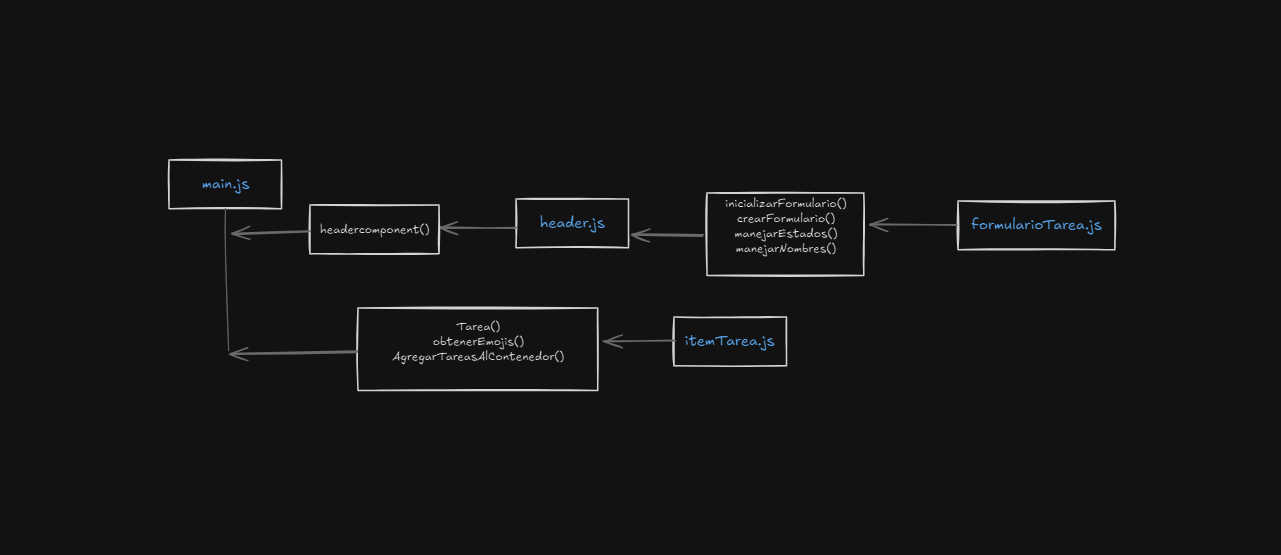
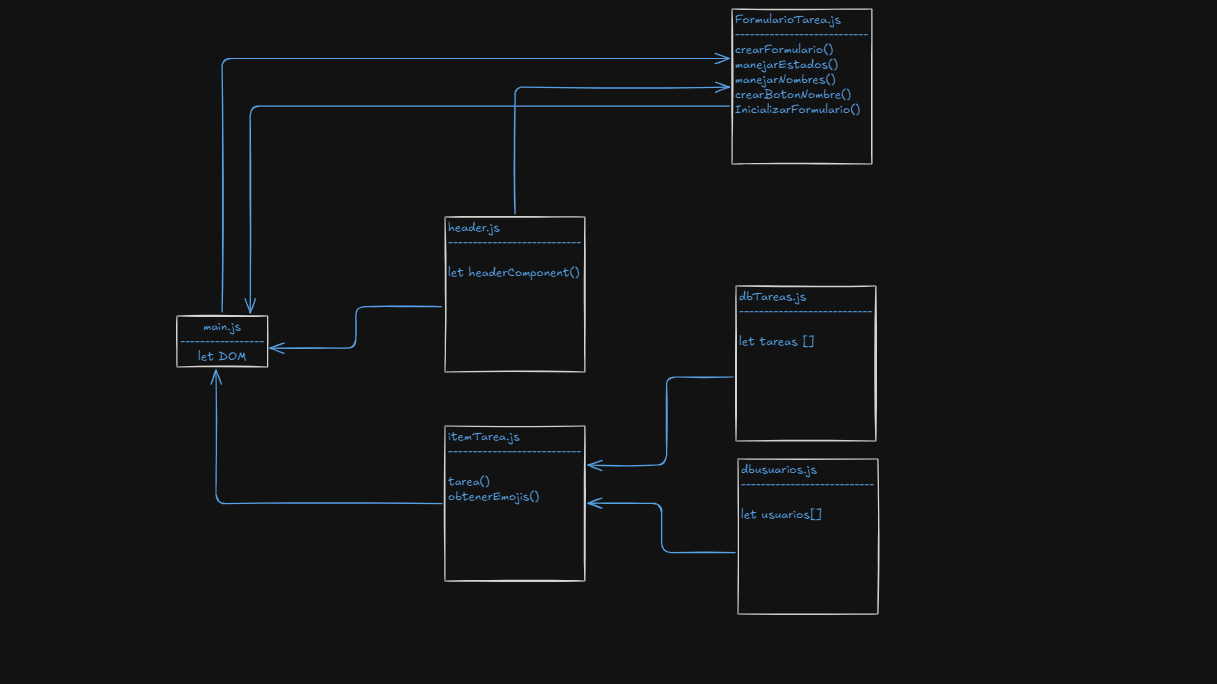
UML terminado

diff --git a/componentes/header/header.css b/componentes/header/header.css
@@ -56,11 +56,9 @@
 }
 .icon1 :hover{
     transition: 2ms;
-    zoom: 1.2;
 }
 .icon2 :hover{
     transition: 2ms;
-    zoom: 1.2;
 }
 .icon2{
     text-align: center;

diff --git a/README.md b/README.md
@@ -88,4 +88,4 @@ Mantener el fork actualizado
 # Esquema 
 link de excalidraw: https://excalidraw.com/#json=XIBe2WIx5Uo7vUiWwqwuE,lnfCPDIcpdG9mSclbXEuQQ
 
-![Esquema](https://github.com/user-attachments/assets/1f7861f7-285a-4780-adf8-f79e9d75ab99)
+![Screenshot 2024-10-03 080240](https://github.com/user-attachments/assets/b68e72ef-a992-412a-a739-903d267a679c)
